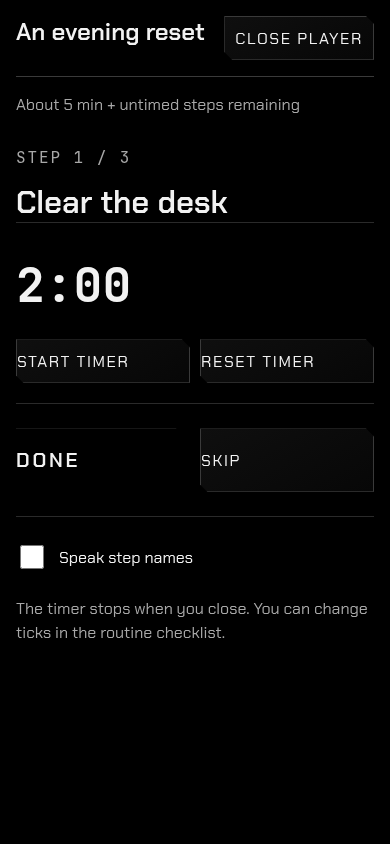
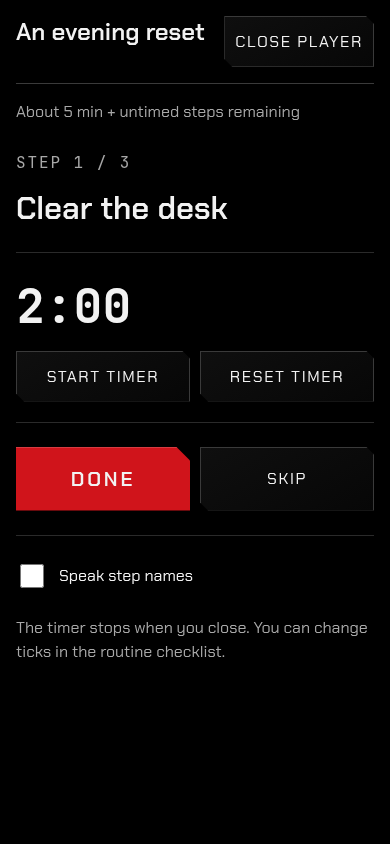
Preserve canonical player styling and record whole-life verification

diff --git a/src/ui/screens/more/WholeLifeHome.tsx b/src/ui/screens/more/WholeLifeHome.tsx
@@ -52,7 +52,7 @@ export function WholeLifeHome({ active, onArea, onNavigate, onTask, idPrefix }: 
   const progress = data?.routineProgress.state === "ready" ? data.routineProgress.value : null;
   const date = new Date(data?.readAt ?? Date.now());
   const greeting = date.getHours() < 5 ? "Room for the rest of you." : date.getHours() < 12 ? "Make room for your life." : date.getHours() < 18 ? "Your day. Your direction." : "Bring your day together.";
-  return <div className="whole-life" aria-label="Your life">
+  return <><div className="whole-life" aria-label="Your life">
     <header className="wl-masthead"><span>BEYOND / LIFE</span><button type="button" onClick={() => void refresh()} disabled={reading} aria-label="Refresh your life"><RefreshCw size={18} /><span>{reading ? "Reading" : "Refresh"}</span></button></header>
     <section className="wl-hero" aria-labelledby={`${idPrefix}-title`}>
       <p className="wl-eyebrow">{date.toLocaleDateString(undefined, { weekday: "long", month: "long", day: "numeric" })}</p>
@@ -84,6 +84,7 @@ export function WholeLifeHome({ active, onArea, onNavigate, onTask, idPrefix }: 
     </div>}
     <section className="wl-explore" aria-labelledby={`${idPrefix}-explore-title`}><p className="wl-eyebrow">THE REST IS HERE, TOO</p><h3 id={`${idPrefix}-explore-title`}>More than getting things done.</h3><div><button type="button" disabled={!onNavigate} onClick={() => navigate({ kind: "more", view: "WORK_SCHEDULE" })}><CalendarDays size={20} /> Calendar & schedule</button><button type="button" onClick={() => onArea("Habits")}><Heart size={20} /> Habits</button><button type="button" onClick={() => onArea("Memory")}><Compass size={20} /> Memory</button><button type="button" disabled={!onNavigate} onClick={() => navigate({ kind: "more", view: "COLLECTIONS" })}><Layers size={20} /> Collections</button><button type="button" disabled={!onNavigate} onClick={() => navigate({ kind: "more", view: "JOURNAL" })}><BookOpen size={20} /> Decisions & reflection</button></div></section>
     <footer className="wl-footer"><span>Built around your life.</span><span>You choose what comes next.</span></footer>
+  </div>
     {playing && active && <RoutinePlayer routines={[playing]} onClose={() => { setPlaying(null); void refresh(); }} />}
-  </div>;
+  </>;
 }

diff --git a/tests/browser/WholeLife.test.tsx b/tests/browser/WholeLife.test.tsx
@@ -114,6 +114,8 @@ it("opens the routine player read-only and reflects completion after explicit DO
   await screen.getByRole("button", { name: /An evening reset.*Play/ }).click();
   await expect.element(screen.getByRole("dialog", { name: "An evening reset", exact: true })).toBeVisible();
   await expect.element(screen.getByRole("heading", { name: "Clear the desk", exact: true })).toBeVisible();
+  expect(getComputedStyle(screen.getByRole("button", { name: "DONE", exact: true }).element()).backgroundColor)
+    .not.toBe(getComputedStyle(screen.getByRole("dialog", { name: "An evening reset", exact: true }).element()).backgroundColor);
   expect(await db.events.count()).toBe(count);
   await screen.getByRole("button", { name: "DONE", exact: true }).click();
   await expect.element(screen.getByRole("heading", { name: "Put tomorrow's things together", exact: true })).toBeVisible();

diff --git a/docs/agent/WHOLE-LIFE-001.md b/docs/agent/WHOLE-LIFE-001.md
@@ -38,11 +38,20 @@
 - Interactive inspection caught the inherited 430 px wrapper compressing desktop content and an
   overly tall phone introduction. LIFE now expands only in its own workspace, and the first
   recorded task fits above the phone navigation (explicit regression assertion).
-- TypeScript and an initial production build PASS; full final architecture/test/build gate running.
+- Full `npm run verify` at `f866f7af`: **433 files / 3,523 tests PASS**, with the existing
+  one-file/two-test skips; architecture, TypeScript, production build and PWA generation PASS.
+- Final visual containment repair renders the canonical player beside the overview, so overview
+  button/heading rules cannot override its established presentation. After this small UI-only
+  change, WholeLife/Life/RoutinePlayer are again **21/21 PASS**, including a new distinct DONE
+  action assertion; architecture (455 files), TypeScript and production/PWA build again PASS.
+  The full suite predates this last containment repair; exact-head required CI remains pending.
 - CI-FLAKE-001's repair is already merged on master as #409. GitHub API access in this environment
   still returns Forbidden; live CI attempt/review status cannot be established through that API.
 - No new runtime dependency, provider, Engine, event, schema or backup change. No automatic task
   selection, scheduling or recording. Source failures remain unavailable instead of claiming empty.
-- Next: complete the full gate, push this branch and open the single prototype PR if API access
-  permits. Independent exact-head review and green CI precede merge/deployment. This is a working
+- PR creation was attempted and rejected with `Post https://api.github.com/graphql: Forbidden`.
+  No PR number, remote CI result or independent review is claimed. The branch and evidence are
+  pushed for an independent reviewer to open the one PR when access permits.
+- Next: independent exact-head review and green required CI, then Gavin's merge/deployment
+  decision. This is a working
   prototype for Gavin to judge on his phone, not a claim that the full life vision is finished.

diff --git a/docs/agent/CURRENT_CHECKPOINT.md b/docs/agent/CURRENT_CHECKPOINT.md
@@ -12,11 +12,16 @@
   authority remain. Independent exact-head review and green CI required; no self-merge/deployment.
 - Chromium acceptance: 21/21 PASS including 320/360/412/1440 widths, full axe, a task inside the phone
   fold, no-write browsing, source failure/retry, free/work days, retained draft/focus and canonical
-  routine completion feedback. TypeScript and initial production/PWA build PASS. Full gate running.
+  routine completion feedback. Full verify at `f866f7af`: **433 files / 3,523 tests PASS**, existing
+  one-file/two-test skips; architecture/TypeScript/production/PWA build PASS. A final small player
+  style-containment repair has renewed 21/21 focused PASS, architecture 455 files and build PASS;
+  the full suite predates that containment repair. Exact-head remote CI/review remain pending.
 - [Actual App captures](../screenshots/whole-life-001/README.md) use synthetic records in a disposable
   browser context. Interactive inspection fixed the inherited 430 px desktop wrapper and tall phone
   introduction. CI repair #409 is already on master; live GitHub API access still returns Forbidden.
-- Next: finish the full gate, push the prototype and prepare its single PR/review handoff. Gavin
+- Branch and captures pushed; PR creation failed with `Post https://api.github.com/graphql:
+  Forbidden`. No PR number or independent review claimed. Next: open the one prototype PR,
+  obtain independent exact-head review and green CI, then Gavin's merge/deployment decision. Gavin
   judges the working experience before further expansion; the complete life vision is not claimed done.
 
 ---
